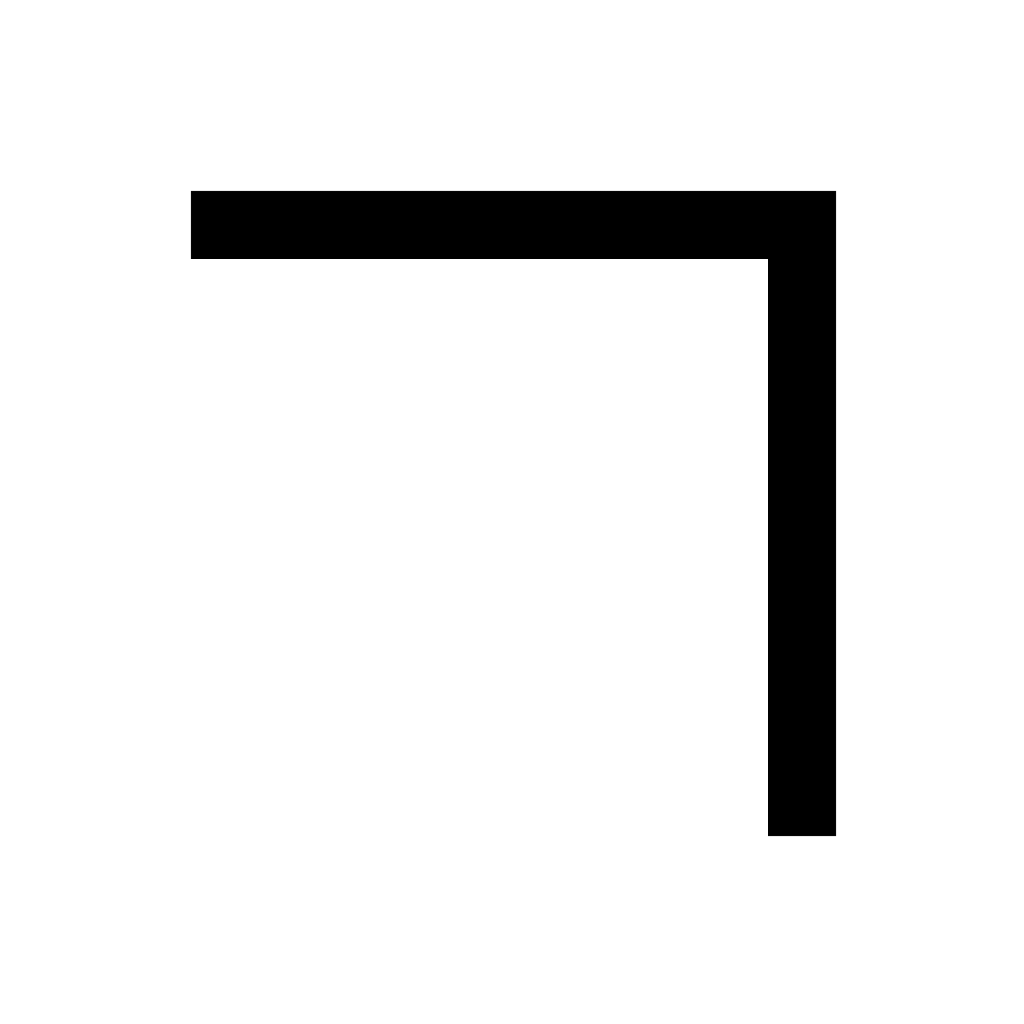
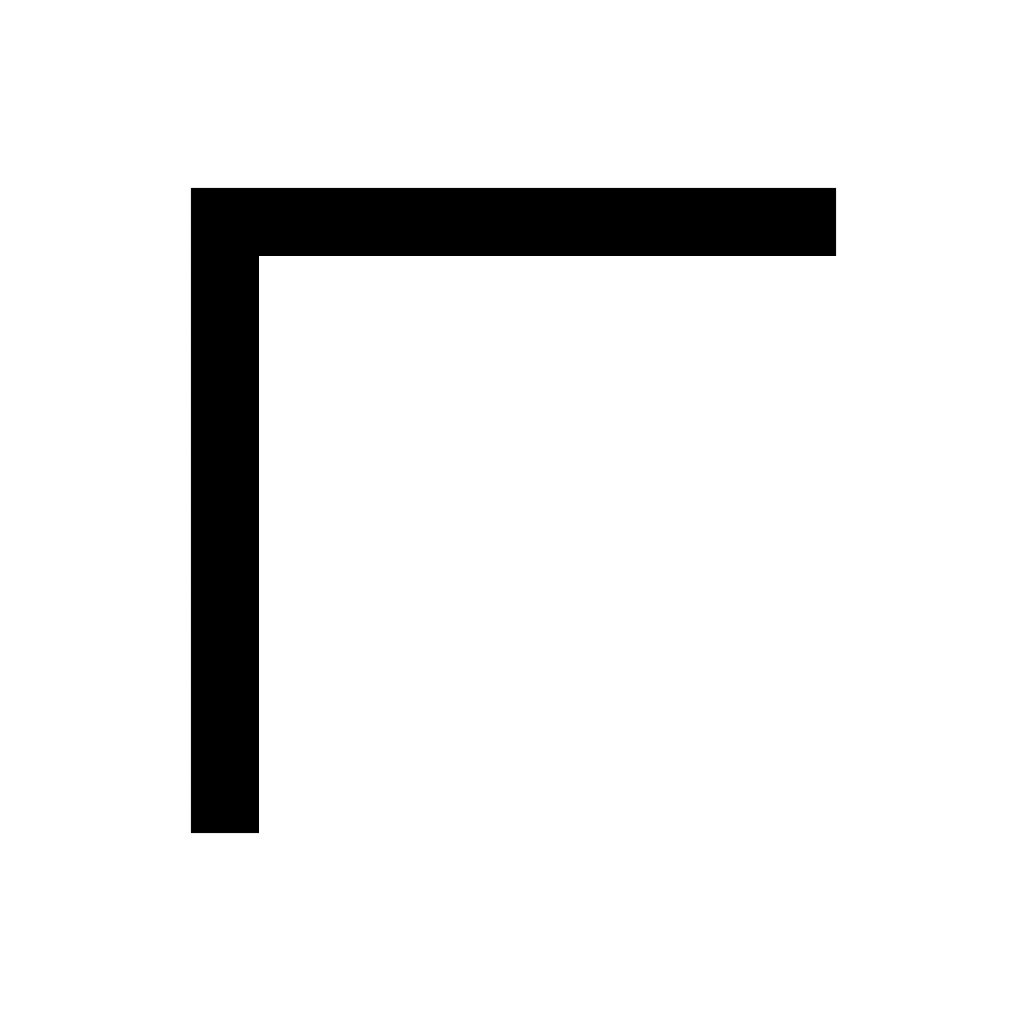
플레이어 얼굴 스프라이트 추가

Changed region(s): [[0.75, 0.25, 0.8438, 0.8438], [0.1875, 0.25, 0.2812, 0.8125]]

diff --git a/GL2D/Obstacle.cpp b/GL2D/Obstacle.cpp
@@ -25,7 +25,9 @@ Obstacle::Obstacle(ObstacleType type, GLfloat R, GLfloat G, GLfloat B){
 				TypeName += std::to_string(num);
 				if (num == 5)
 					DirectionChanger = true;
+
 			}
+			ShapeRotation = 0.0;
 		}
 		}
 		break;
@@ -43,6 +45,7 @@ Obstacle::Obstacle(ObstacleType type, GLfloat R, GLfloat G, GLfloat B){
 				if (num == 6)
 					DirectionChanger = true;
 			}
+			ShapeRotation = -90.0;
 		}
 		}
 		break;
@@ -60,6 +63,7 @@ Obstacle::Obstacle(ObstacleType type, GLfloat R, GLfloat G, GLfloat B){
 				if (num == 6)
 					DirectionChanger = true;
 			}
+			ShapeRotation = -192.0;
 		}
 		}
 		break;
@@ -69,6 +73,7 @@ Obstacle::Obstacle(ObstacleType type, GLfloat R, GLfloat G, GLfloat B){
 	ShapeType = static_cast<int>(type);
 
 	SetColor(R, G, B);
+	Rotate(ShapeRotation);
 }
 
 void Obstacle::SetMoveSpeed(GLfloat Speed) {
@@ -112,18 +117,6 @@ void Obstacle::Update(float FT) {
 			}
 		}
 	}
-
-	switch (ShapeType) {
-	case 0:
-		ShapeRotation = std::lerp(ShapeRotation, 0.0, FT * 15);
-		break;
-	case 1:
-		ShapeRotation = std::lerp(ShapeRotation, -120, FT * 15);
-		break;
-	case 2:
-		ShapeRotation = std::lerp(ShapeRotation, -192, FT * 15);
-		break;
-	}
 	
 	if (Size <= 0.85 && Size > 0.75)
 		Size -= FT * MoveSpeed * 2 * Size;
@@ -150,7 +143,7 @@ void Obstacle::Update(float FT) {
 		Size -= FT * MoveSpeed * Size;
 
 	Scale(Size, Size );
-	Rotate(Rotation + ShapeRotation + 30);
+	Rotate(Rotation + ShapeRotation);
 }
 
 bool Obstacle::CheckShapeType() {

diff --git a/GL2D/Player.cpp b/GL2D/Player.cpp
@@ -52,6 +52,15 @@ void Player::ChangeRotationDirection() {
 
 
 Player::Player(){
+	switch (Face) {
+	case lilith:
+		PlayerImageNormal1 = imageUtil.SetImage("lilith_1");
+		PlayerImageNormal2 = imageUtil.SetImage("lilith_2");
+		PlayerImageNormal3 = imageUtil.SetImage("lilith_3");
+		PlayerImageGameOver = imageUtil.SetImage("lilith_4");
+		break;
+	}
+
 	SetColor(1.0, 1.0, 1.0);
 	Scale(Size, Size);
 
@@ -102,7 +111,7 @@ void Player::Update(float FT){
 		ShapeRotation = std::lerp(ShapeRotation, 0.0, FT * 15);
 		break;
 	case EnumSquare:
-		ShapeRotation = std::lerp(ShapeRotation, -120, FT * 15);
+		ShapeRotation = std::lerp(ShapeRotation, -90, FT * 15);
 		break;
 	case EnumPentagon:
 		ShapeRotation = std::lerp(ShapeRotation, -192, FT * 15);
@@ -110,7 +119,7 @@ void Player::Update(float FT){
 	}
 
 	Scale(Size, Size);
-	Rotate(Rotation + ShapeRotation + 30);
+	Rotate(Rotation + ShapeRotation);
 }
 
 void Player::Render(){
@@ -118,6 +127,7 @@ void Player::Render(){
 }
 
 void Player::RenderShapes() {
+	SetColor(1.0, 1.0, 1.0);
 	ProcessTransform();
 
 	switch (ShapeState) {
@@ -133,4 +143,11 @@ void Player::RenderShapes() {
 		pentagon.Render();
 		break;
 	}
+
+	SetColor(0.0, 0.0, 0.0);
+	ProcessTransform();
+	if(!GameOver)
+		imageUtil.Draw(PlayerImageNormal1);
+	else
+		imageUtil.Draw(PlayerImageGameOver);
 }

diff --git a/GL2D/ImageUtil.cpp b/GL2D/ImageUtil.cpp
@@ -47,6 +47,12 @@ std::unordered_map<std::string, const char*> ImageList
 
 	// cursor
 	{"cursor", "resources//image//ui//cursor.png"},
+
+	// player face
+	{"lilith_1", "resources//image//player//lilith_sprite_1.png"},
+	{"lilith_2", "resources//image//player//lilith_sprite_2.png"},
+	{"lilith_3", "resources//image//player//lilith_sprite_3.png"},
+	{"lilith_4", "resources//image//player//lilith_sprite_4.png"},
 };
 
 

diff --git a/GL2D/AnimationShape.h b/GL2D/AnimationShape.h
@@ -13,7 +13,7 @@ private:
 public:
 	AnimationShape(GLfloat R, GLfloat G, GLfloat B) {
 		Image = imageUtil.SetImage("center_triangle");
-		Rotation = -90;
+		Rotation = -180;
 		Translate(0.0, Position);
 		ScaleSpot(Size, Size);
 		RotateSpot(Rotation);
@@ -28,7 +28,7 @@ public:
 
 		Translate(0.0, Position);
 		ScaleSpot(Size, Size);
-		RotateSpot(Rotation + 30);
+		RotateSpot(Rotation);
 	}
 
 	void Render() {

diff --git a/GL2D/GLMain.cpp b/GL2D/GLMain.cpp
@@ -25,6 +25,8 @@ int HEIGHT = 800;
 GLfloat ASPECT;
 Rect rect;
 
+int Face;
+
 std::string VENDOR;
 
 ShaderUtil shader;
@@ -115,6 +117,7 @@ void main(int argc, char** argv) {
 	imageUtil.Init();
 	soundUtil.Init();
 
+	Face = lilith;
 	fw.Init(Lobby::LobbyMode, Lobby::SetController);
 	mp.Init("stage1");
 

diff --git a/GL2D/Player.h b/GL2D/Player.h
@@ -24,6 +24,11 @@ private:
 
 	bool GameOver{};
 
+	unsigned int PlayerImageNormal1{};
+	unsigned int PlayerImageNormal2{};
+	unsigned int PlayerImageNormal3{};
+	unsigned int PlayerImageGameOver{};
+
 public:
 	Player();
 	void Update(float FT);

diff --git a/GL2D/GLHeader.h b/GL2D/GLHeader.h
@@ -32,6 +32,12 @@ constexpr bool ShowBoundBox = true;
 extern GLuint ImageShader;
 extern GLuint TextShader;
 
+extern int Face;
+
+enum Face {
+	lilith,
+};
+
 
 // multiply Xposition with Aspect
 inline GLfloat ASP(GLfloat ValueX) {
